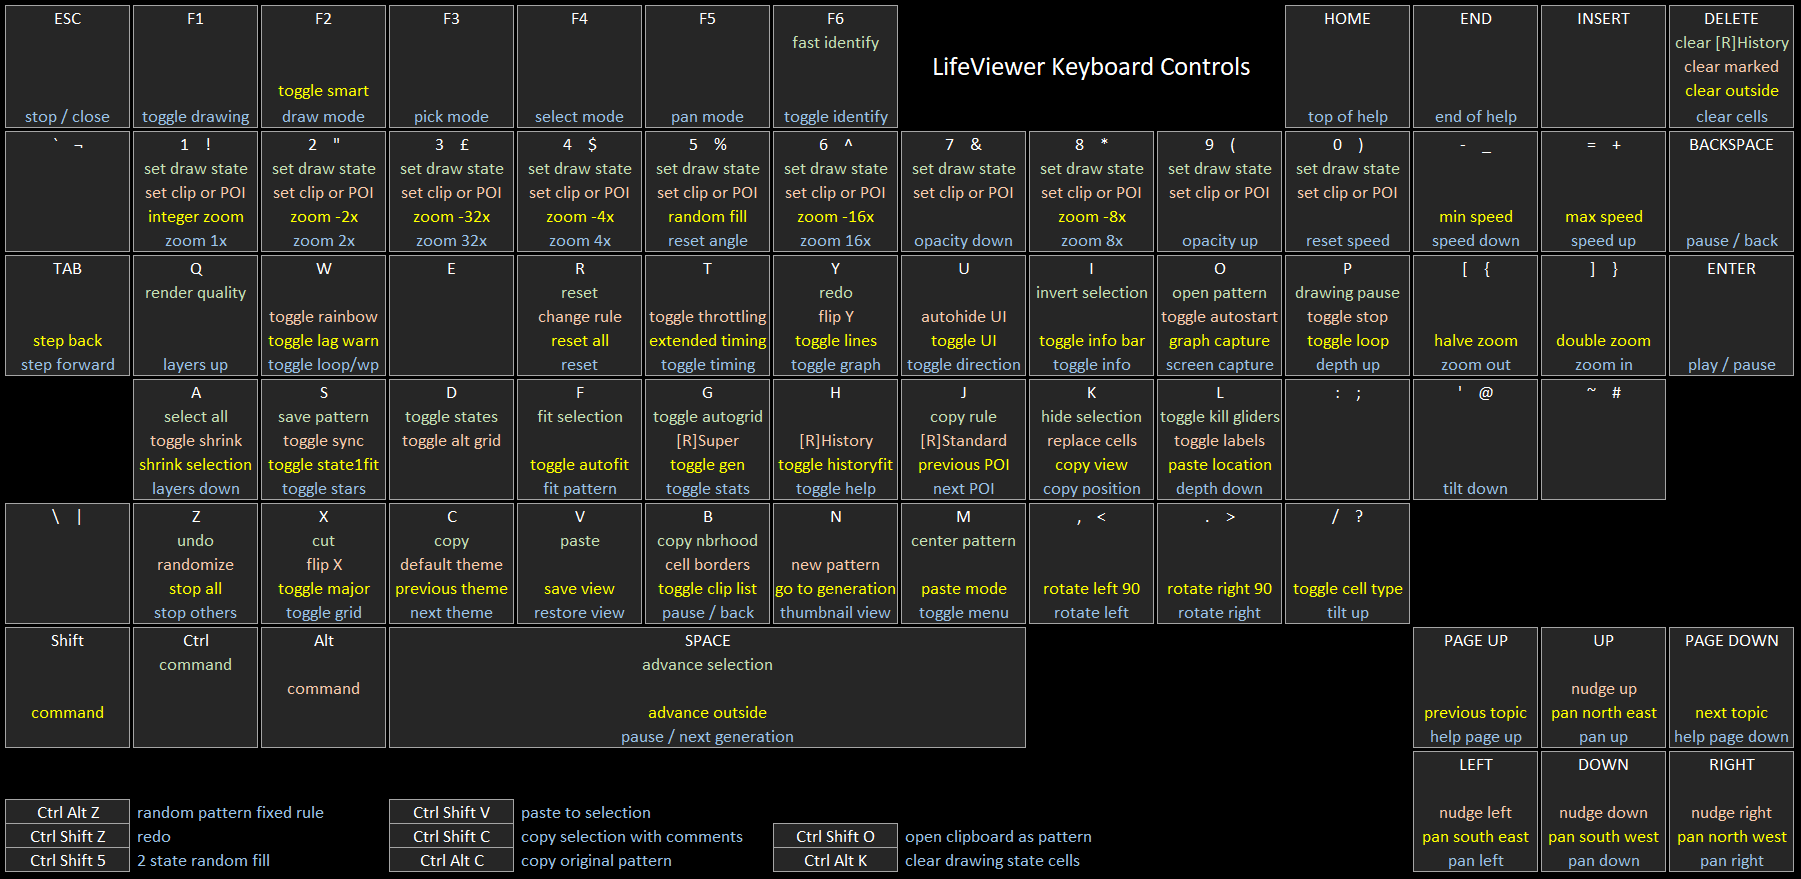
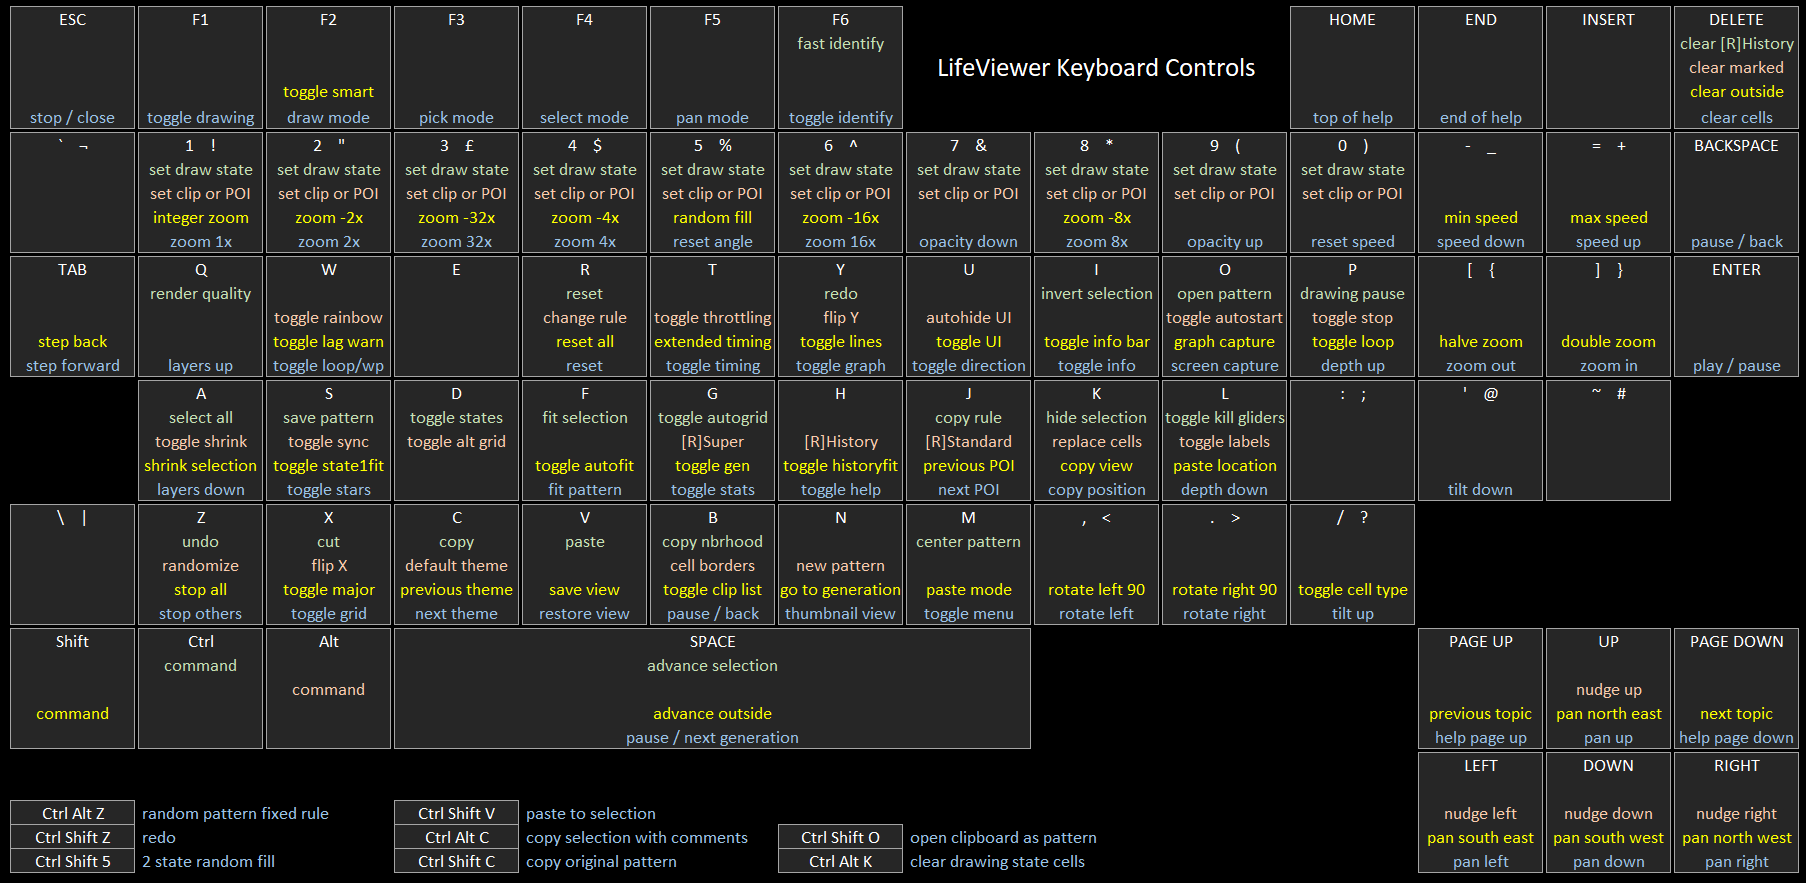
added more missing UI controls

diff --git a/js/lifeview.js b/js/lifeview.js
@@ -1,4 +1,4 @@
-// LifeViewer plugin
+// LifeViewer Buttonlugin
 // written by Chris Rowett
 
 (function() {
@@ -294,7 +294,7 @@
 		/** @const {string} */ externalViewerTitle : "LifeViewer",
 
 		// build version
-		/** @const {number} */ versionBuild : 726,
+		/** @const {number} */ versionBuild : 728,
 
 		// author
 		/** @const {string} */ versionAuthor : "Chris Rowett",
@@ -1855,6 +1855,9 @@
 
 		// timing details button
 		this.timingDetailButton = null;
+
+		// clear drawing state button
+		this.clearDrawingStateButton = null;
 
 		// generation label
 		this.genLabel = null;
@@ -5868,14 +5871,13 @@
 		this.saveImageButton.deleted = shown;
 		this.saveGraphButton.deleted = shown;
 
-		// info category
+		// advanced category
 		shown = hide || !this.showInfoSettings;
 		this.fpsButton.deleted = shown;
 		this.timingDetailButton.deleted = shown;
-		this.infoBarButton.deleted = shown;
 		this.relativeToggle.deleted = shown;
 		this.relativeToggle.locked = !this.genDefined;
-		this.qualityToggle.deleted = shown;
+		this.clearDrawingStateButton.deleted = shown;
 
 		// display categoy
 		shown = hide || !this.showDisplaySettings;
@@ -5889,6 +5891,8 @@
 		this.autoGridButton.deleted = shown;
 		this.altGridButton.deleted = shown;
 		this.rainbowButton.deleted = shown;
+		this.qualityToggle.deleted = shown;
+		this.infoBarButton.deleted = shown;
 
 		// playback category
 		shown = hide || !this.showPlaybackSettings;
@@ -6931,6 +6935,10 @@
 				if (me.modeList.current !== ViewConstants.modePan) {
 					me.modeList.current = me.viewModeList(ViewConstants.modePan, true, me);
 				}
+			}
+			// close settings menu
+			if (me.navToggle.current[0]) {
+				me.navToggle.current = me.toggleSettings([false], true, me);
 			}
 		}
 
@@ -13365,6 +13373,11 @@
 		return [me.displayHelp];
 	};
 	
+	// clear drawing state cells
+	View.prototype.clearDrawingCellsPressed = function(me) {
+		me.clearCells(me, false, false);
+	};
+
 	// relative/absolute generation display toggle
 	View.prototype.viewRelativeToggle = function(newValue, change, me) {
 		if (change) {
@@ -14450,43 +14463,51 @@
 		this.themeSectionLabel = this.viewMenu.addLabelItem(Menu.north, 0, 100, 120, 40, "");
 
 		// hex/square cell toggle button
-		this.hexCellButton = this.viewMenu.addListItem(this.viewHexCellToggle, Menu.middle, -100, -100, 180, 40, ["Use Rectangles"], [this.engine.forceRectangles], Menu.multi);
+		this.hexCellButton = this.viewMenu.addListItem(this.viewHexCellToggle, Menu.middle, -100, -125, 180, 40, ["Use Rectangles"], [this.engine.forceRectangles], Menu.multi);
 		this.hexCellButton.toolTip = ["toggle hexagonal cells [?]"];
 
 		// cell borders toggle button
-		this.bordersButton = this.viewMenu.addListItem(this.viewBordersToggle, Menu.middle, 100, -100, 180, 40, ["Cell Borders"], [this.engine.cellBorders], Menu.multi);
+		this.bordersButton = this.viewMenu.addListItem(this.viewBordersToggle, Menu.middle, 100, -125, 180, 40, ["Cell Borders"], [this.engine.cellBorders], Menu.multi);
 		this.bordersButton.toolTip = ["toggle cell borders [Alt B]"];
 
 		// major gridlines toggle button
-		this.majorButton = this.viewMenu.addListItem(this.viewMajorToggle, Menu.middle, -100, -50, 180, 40, ["Major GridLines"], [this.engine.gridLineMajorEnabled], Menu.multi);
+		this.majorButton = this.viewMenu.addListItem(this.viewMajorToggle, Menu.middle, -100, -75, 180, 40, ["Major GridLines"], [this.engine.gridLineMajorEnabled], Menu.multi);
 		this.majorButton.toolTip = ["toggle major gridlines [Shift X]"];
 
 		// stars toggle button
-		this.starsButton = this.viewMenu.addListItem(this.viewStarsToggle, Menu.middle, 100, -50, 180, 40, ["Starfield"], [this.starsOn], Menu.multi);
+		this.starsButton = this.viewMenu.addListItem(this.viewStarsToggle, Menu.middle, 100, -75, 180, 40, ["Starfield"], [this.starsOn], Menu.multi);
 		this.starsButton.toolTip = ["toggle starfield display [S]"];
 
 		// label toggle button
-		this.labelButton = this.viewMenu.addListItem(this.viewLabelToggle, Menu.middle, -100, 0, 180, 40, ["Annotations"], [this.showLabels], Menu.multi);
+		this.labelButton = this.viewMenu.addListItem(this.viewLabelToggle, Menu.middle, -100, -25, 180, 40, ["Annotations"], [this.showLabels], Menu.multi);
 		this.labelButton.toolTip = ["toggle annotations [Alt L]"];
 
 		// rainbow button
-		this.rainbowButton = this.viewMenu.addListItem(this.viewRainbowToggle, Menu.middle, 100, 0, 180, 40, ["Rainbow"], [this.engine.rainbow], Menu.multi);
+		this.rainbowButton = this.viewMenu.addListItem(this.viewRainbowToggle, Menu.middle, 100, -25, 180, 40, ["Rainbow"], [this.engine.rainbow], Menu.multi);
 		this.rainbowButton.toolTip = ["toggle rainbow mode [Alt W]"]; 
 
 		// autogrid toggle button
-		this.autoGridButton = this.viewMenu.addListItem(this.viewAutoGridToggle, Menu.middle, -100, 50, 180, 40, ["Auto GridLines"], [this.autoGrid], Menu.multi);
+		this.autoGridButton = this.viewMenu.addListItem(this.viewAutoGridToggle, Menu.middle, -100, 25, 180, 40, ["Auto GridLines"], [this.autoGrid], Menu.multi);
 		this.autoGridButton.toolTip = ["automatically turn on gridlines for Draw and Select and off for Pan [Ctrl G]"]; 
 
 		// alt grid toggle button
-		this.altGridButton = this.viewMenu.addListItem(this.viewAltGridToggle, Menu.middle, 100, 50, 180, 40, ["Alt GridLines"], [this.engine.altGrid], Menu.multi);
+		this.altGridButton = this.viewMenu.addListItem(this.viewAltGridToggle, Menu.middle, 100, 25, 180, 40, ["Alt GridLines"], [this.engine.altGrid], Menu.multi);
 		this.altGridButton.toolTip = ["toggle alternating gridlines [Alt D]"]; 
 
+		// infobar toggle button
+		this.infoBarButton = this.viewMenu.addListItem(this.viewInfoBarToggle, Menu.middle, -100, 75, 180, 40, ["Info Bar"], [this.infoBarEnabled], Menu.multi);
+		this.infoBarButton.toolTip = ["toggle Information Bar [Shift I]"];
+
+		// quality rendering toggle button
+		this.qualityToggle = this.viewMenu.addListItem(this.viewQualityToggle, Menu.middle, 100, 75, 180, 40, ["Render Quality"], [this.engine.pretty], Menu.multi);
+		this.qualityToggle.toolTip = ["toggle anti-aliased cell display [Ctrl Q]"];
+
 		// integer zoom button
-		this.integerZoomButton = this.viewMenu.addButtonItem(this.integerZoomPressed, Menu.middle, -100, 100, 180, 40, "Integer Zoom");
+		this.integerZoomButton = this.viewMenu.addButtonItem(this.integerZoomPressed, Menu.middle, -100, 125, 180, 40, "Integer Zoom");
 		this.integerZoomButton.toolTip = "set zoom to nearest integer [Shift 1]";
 
 		// center pattern button
-		this.centerPatternButton = this.viewMenu.addButtonItem(this.centerPatternPressed, Menu.middle, 100, 100, 180, 40, "Center Pattern");
+		this.centerPatternButton = this.viewMenu.addButtonItem(this.centerPatternPressed, Menu.middle, 100, 125, 180, 40, "Center Pattern");
 		this.centerPatternButton.toolTip = "center pattern [Ctrl M]";
 
 		// go to generation button
@@ -14578,24 +14599,20 @@
 		this.pasteToSelectionButton.toolTip = "paste to selection [Ctrl Shift V]";
 
 		// fps button
-		this.fpsButton = this.viewMenu.addListItem(this.viewFpsToggle, Menu.middle, 0, -100, 180, 40, ["Frame Times"], [this.menuManager.showTiming], Menu.multi);
+		this.fpsButton = this.viewMenu.addListItem(this.viewFpsToggle, Menu.middle, -100, -25, 180, 40, ["Frame Times"], [this.menuManager.showTiming], Menu.multi);
 		this.fpsButton.toolTip = ["toggle timing display [T]"];
 
 		// timing detail button
-		this.timingDetailButton = this.viewMenu.addListItem(this.viewTimingDetailToggle, Menu.middle, 0, -50, 180, 40, ["Timing Details"], [this.menuManager.showExtendedTiming], Menu.multi);
+		this.timingDetailButton = this.viewMenu.addListItem(this.viewTimingDetailToggle, Menu.middle, 100, -25, 180, 40, ["Timing Details"], [this.menuManager.showExtendedTiming], Menu.multi);
 		this.timingDetailButton.toolTip = ["toggle timing details [Shift T]"];
 
-		// infobar toggle button
-		this.infoBarButton = this.viewMenu.addListItem(this.viewInfoBarToggle, Menu.middle, 0, 0, 180, 40, ["Display Info Bar"], [this.infoBarEnabled], Menu.multi);
-		this.infoBarButton.toolTip = ["toggle Information Bar [Shift I]"];
-
 		// relative toggle button
-		this.relativeToggle = this.viewMenu.addListItem(this.viewRelativeToggle, Menu.middle, 0, 50, 180, 40, ["Relative Gen"], [this.genRelative], Menu.multi);
+		this.relativeToggle = this.viewMenu.addListItem(this.viewRelativeToggle, Menu.middle, -100, 25, 180, 40, ["Relative Gen"], [this.genRelative], Menu.multi);
 		this.relativeToggle.toolTip = ["toggle absolute/relative generation display [Shift G]"];
 
-		// quality rendering toggle button
-		this.qualityToggle = this.viewMenu.addListItem(this.viewQualityToggle, Menu.middle, 0, 100, 180, 40, ["Render Quality"], [this.engine.pretty], Menu.multi);
-		this.qualityToggle.toolTip = ["toggle anti-aliased cell display [Ctrl Q]"];
+		// clear drawing state cells button
+		this.clearDrawingStateButton = this.viewMenu.addButtonItem(this.clearDrawingCellsPressed, Menu.middle, 100, 25, 180, 40, "Clear Drawing");
+		this.clearDrawingStateButton.toolTip = "clear drawing state cells [Ctrl Alt K]";
 
 		// previous universe button
 		this.prevUniverseButton = this.viewMenu.addButtonItem(this.prevUniversePressed, Menu.south, -135, -100, 120, 40, "Prev");
@@ -14935,7 +14952,11 @@
 		this.libraryToggle.addItemsToToggleMenu([this.clipboardList], []);
 
 		// add items to the main toggle menu
-		this.navToggle.addItemsToToggleMenu([this.themeSectionLabel, this.layersItem, this.depthItem, this.angleItem, this.tiltItem, this.backButton, this.themeButton, this.patternButton, this.clipboardButton, this.infoButton, this.displayButton, this.playbackButton, this.throttleToggle, this.showLagToggle, this.shrinkButton, this.escButton, this.autoHideButton, this.autoGridButton, this.altGridButton, this.integerZoomButton, this.centerPatternButton, this.hexCellButton, this.bordersButton, this.labelButton, this.killButton, this.graphButton, this.fpsButton, this.timingDetailButton, this.infoBarButton, this.starsButton, this.historyFitButton, this.majorButton, this.prevUniverseButton, this.nextUniverseButton], []);
+		this.navToggle.addItemsToToggleMenu([this.themeSectionLabel, this.layersItem, this.depthItem, this.angleItem, this.tiltItem, this.backButton, this.themeButton,
+			this.patternButton, this.clipboardButton, this.infoButton, this.displayButton, this.playbackButton, this.throttleToggle, this.showLagToggle, this.shrinkButton,
+			this.escButton, this.autoHideButton, this.autoGridButton, this.altGridButton, this.integerZoomButton, this.centerPatternButton, this.hexCellButton, this.bordersButton,
+			this.labelButton, this.killButton, this.graphButton, this.fpsButton, this.clearDrawingStateButton, this.timingDetailButton, this.infoBarButton, this.starsButton,
+			this.historyFitButton, this.majorButton, this.prevUniverseButton, this.nextUniverseButton], []);
 
 		// add statistics items to the toggle
 		this.genToggle.addItemsToToggleMenu([this.popLabel, this.popValue, this.birthsLabel, this.birthsValue, this.deathsLabel, this.deathsValue, this.genLabel, this.genValueLabel, this.timeLabel, this.elapsedTimeLabel, this.ruleLabel], []);

diff --git a/js/canvasmenu.js b/js/canvasmenu.js
@@ -1589,6 +1589,34 @@
 						this.context.fillRect(x + i * itemSize + 1, y + 1, itemSize - 2, height - 2);
 					}
 				}
+
+				// for since item lists (typically used as toggle buttons) show +/x at top right
+				if (l === 1) {
+					// set colour based on whether item is locked
+					if ((item.locked || this.locked) && !item.overrideLocked) {
+						this.context.strokeStyle = item.lockedCol;
+						this.context.globalAlpha = item.lockedAlpha;
+					} else {
+						this.context.strokeStyle = item.borderCol;
+						this.context.globalAlpha = item.borderAlpha;
+					}
+
+					// if the item is selected draw an x
+					this.context.beginPath();
+					if (values[0]) {
+						this.context.moveTo(x + itemSize - 6 + 0.5, y + 5 + 0.5);
+						this.context.lineTo(x + itemSize - 2 + 0.5, y + 1 + 0.5);
+						this.context.moveTo(x + itemSize - 2 + 0.5, y + 5 + 0.5);
+						this.context.lineTo(x + itemSize - 6 + 0.5, y + 1 + 0.5);
+					} else {
+						// otherwise draw a +
+						this.context.moveTo(x + itemSize - 4 + 0.5, y + 5 + 0.5);
+						this.context.lineTo(x + itemSize - 4 + 0.5, y + 1 + 0.5);
+						this.context.moveTo(x + itemSize - 6 + 0.5, y + 3 + 0.5);
+						this.context.lineTo(x + itemSize - 2 + 0.5, y + 3 + 0.5);
+					}
+					this.context.stroke();
+				}
 			} else {
 				for (i = 0; i < l; i += 1) {
 					if (values[i]) {
@@ -1851,8 +1879,7 @@
 						}
 						this.context.strokeRect(item.x + 0.5 + i * w, item.y + 0.5, w - 1, item.height - 1);
 					}
-				}
-				else {
+				} else {
 					w = item.height / l;
 					for (i = 0; i <l; i += 1) {
 						if (this.locked || item.locked || item.itemLocked[i]) {
